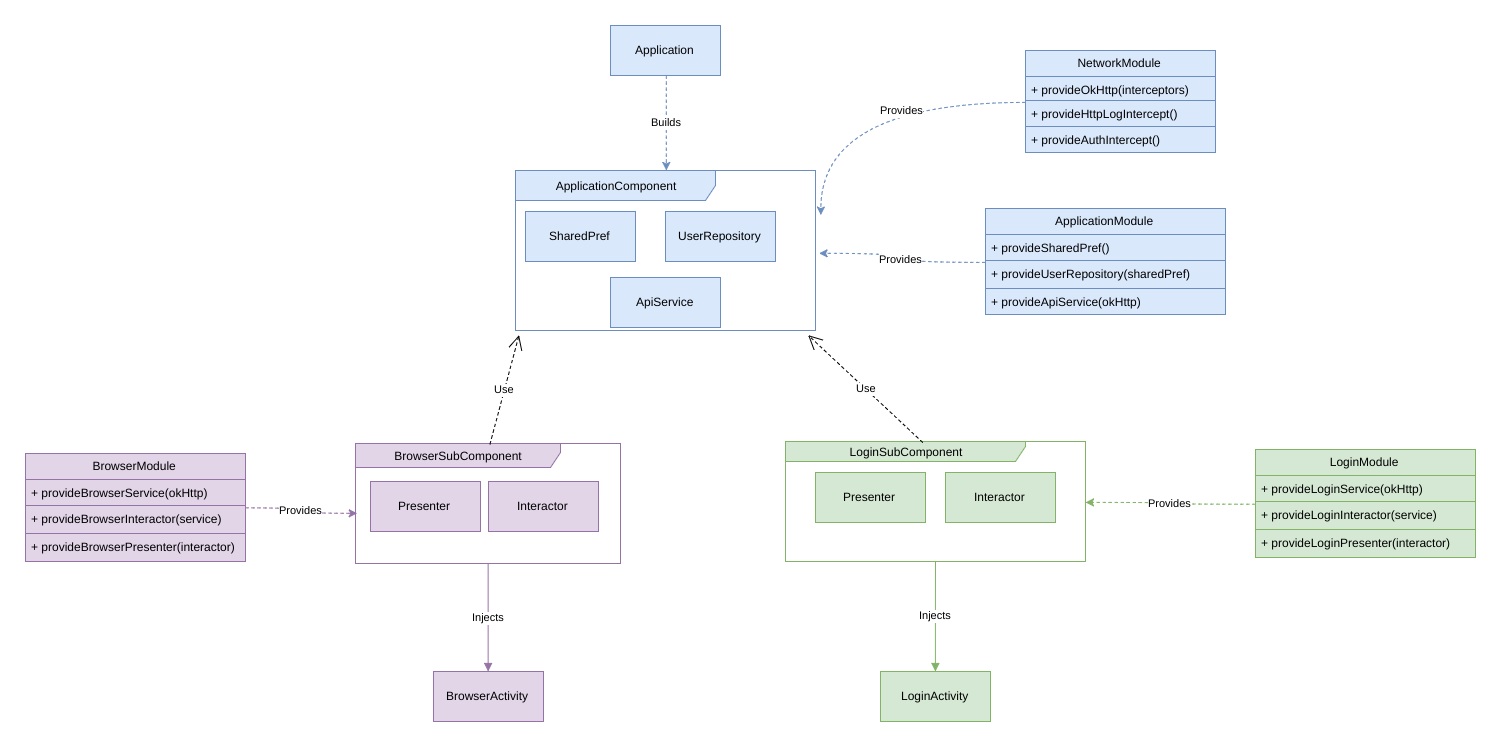
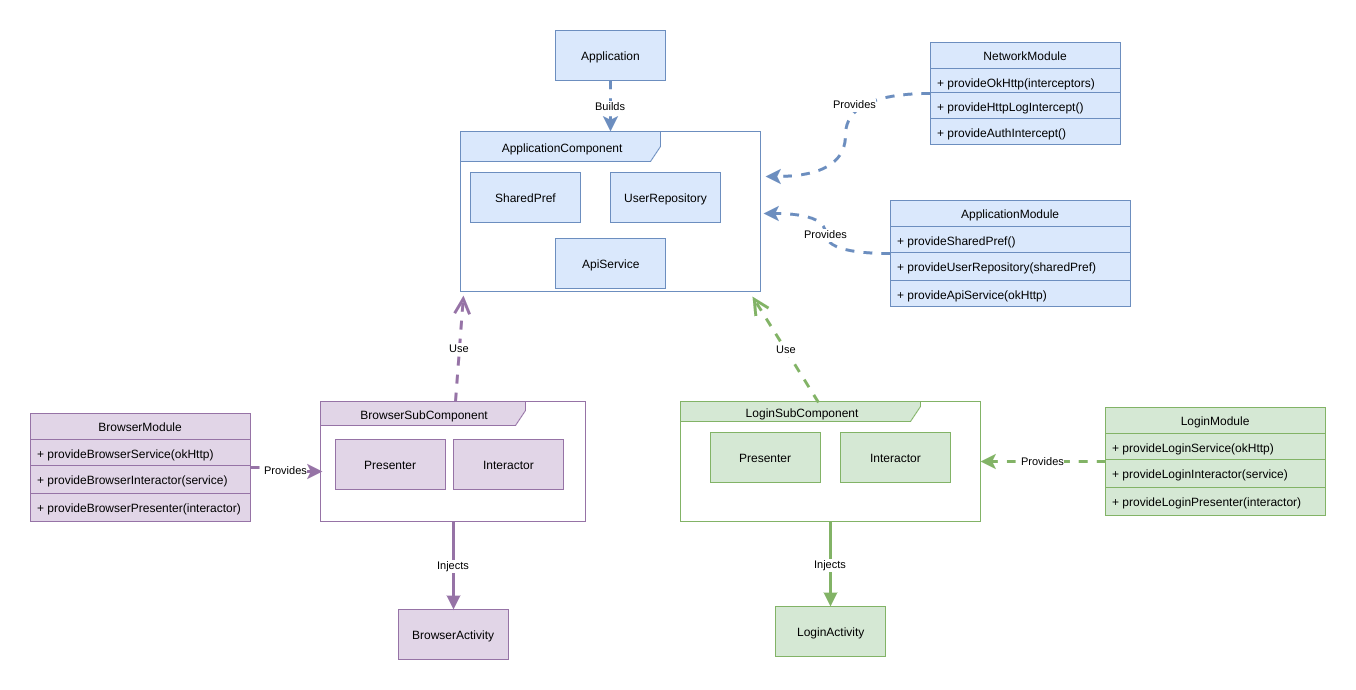
PITCHME - Dagger2

diff --git a/PITCHME.md b/PITCHME.md
@@ -292,11 +292,23 @@ class BrowserActivity: AppCompatActivity(){
         .browserBuilder()
         .build()
         .inject(this)
-    presenter.letMePass()
+    presenter.iHateAndroid()
   }
 }
 ```
 @[7](retrieve AppComponent from Application )
 @[8-10](build and inject)
 @[11](presenter can be used)
+---
+
+@title[Dagger2 - Subcomponent Builders]
+##### Dependency Graph - Subcomponent Builders
+![InstalledAPK](assets/images/dagger2-subcomponent.png)
+
+---
+
+@title[Dagger2 - Modules]
+##### Dependency Graph - Modules 
+![InstalledAPK](assets/images/dagger2-subcomponent-with-modules.png)
+
 ---
